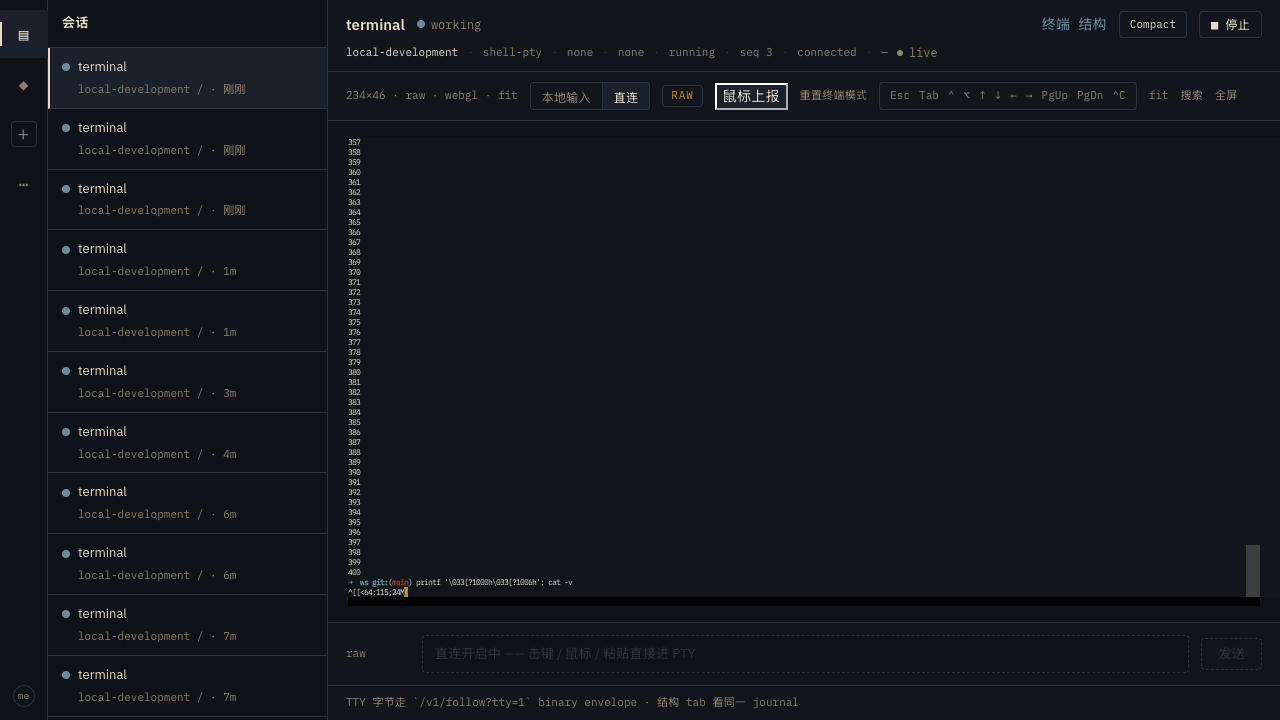
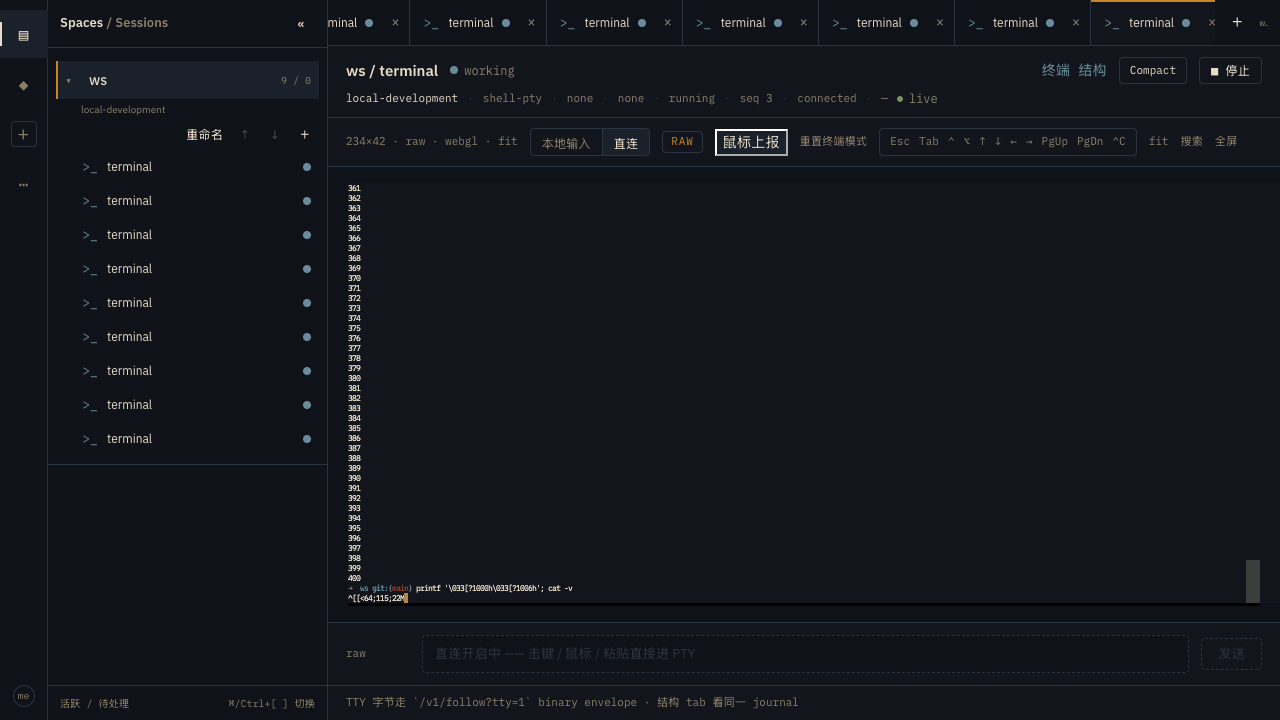
test(web): switch sessions through the Spaces panel
The sidebar this spec drove was replaced by the Spaces panel on main, so
the A→B→A switch could no longer find its row. Target the panel's session
links (still a client-side navigation, so TerminalView stays mounted and
only the [instance.id] effect re-runs — the bug's exact trigger), and
refresh the evidence screenshots against the rebased UI.

diff --git a/web/tests/e2e/terminal-live.spec.ts b/web/tests/e2e/terminal-live.spec.ts
@@ -136,8 +136,15 @@ test.describe("live remote terminal", () => {
     expect(a).not.toEqual(b);
 
     const lab = page.locator("[data-tty-lab='1']");
+    // The sidebar is the Spaces panel; its session rows are plain links.
+    // Clicking one is a client-side navigation, so TerminalView stays mounted
+    // and only the `[instance.id]` effect re-runs — the bug's exact trigger.
     const switchTo = async (id: string) => {
-      await page.locator(`[data-testid=session-row][href^="/s/${id}"]`).first().click();
+      const row = page
+        .locator(`[data-testid=spaces-panel] a[href="/s/${id}"], [data-testid=session-row][href^="/s/${id}"]`)
+        .first();
+      await expect(row).toBeVisible({ timeout: 20_000 });
+      await row.click();
       await expect(page).toHaveURL(new RegExp(`/s/${id}`), { timeout: 20_000 });
       await expect(lab).toHaveAttribute("data-tty-status", "live", { timeout: 30_000 });
       await page.waitForTimeout(800);

diff --git a/docs/design/evidence/terminal-2.md b/docs/design/evidence/terminal-2.md
@@ -48,8 +48,8 @@ so nothing leaks across a switch, and the async `attachTerminalRenderer` resolut
 guarded against landing on a disposed terminal.
 
 Regression test: `terminal-live.spec.ts` › *stdin, mouse and scroll survive a sidebar
-session switch (A→B→A)*. Creates two shell-pty sessions, switches via the sidebar (never
-`goto`, so the component stays mounted), then asserts `readOnly === false`, that typing
+session switch (A→B→A)*. Creates two shell-pty sessions, switches by clicking their rows
+in the Spaces panel (never `goto`, so the component stays mounted), then asserts `readOnly === false`, that typing
 echoes, and that a wheel + click over `printf '\033[?1000h\033[?1006h'; cat -v` produce
 SGR reports. Run against the pre-fix tree it fails exactly at the `readOnly` assertion
 (`Expected: false / Received: true`); after the fix it passes.
